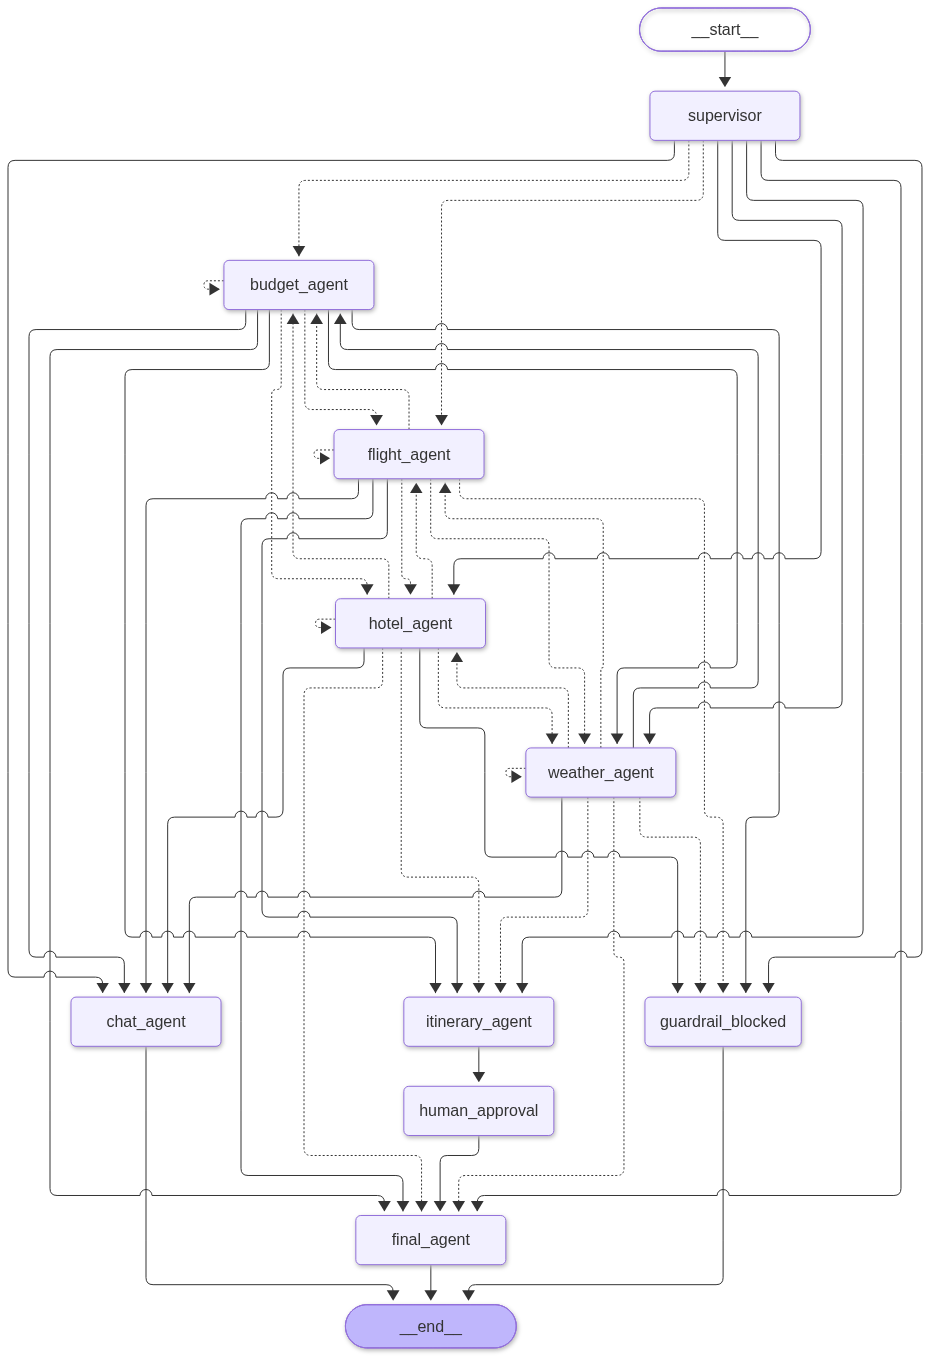
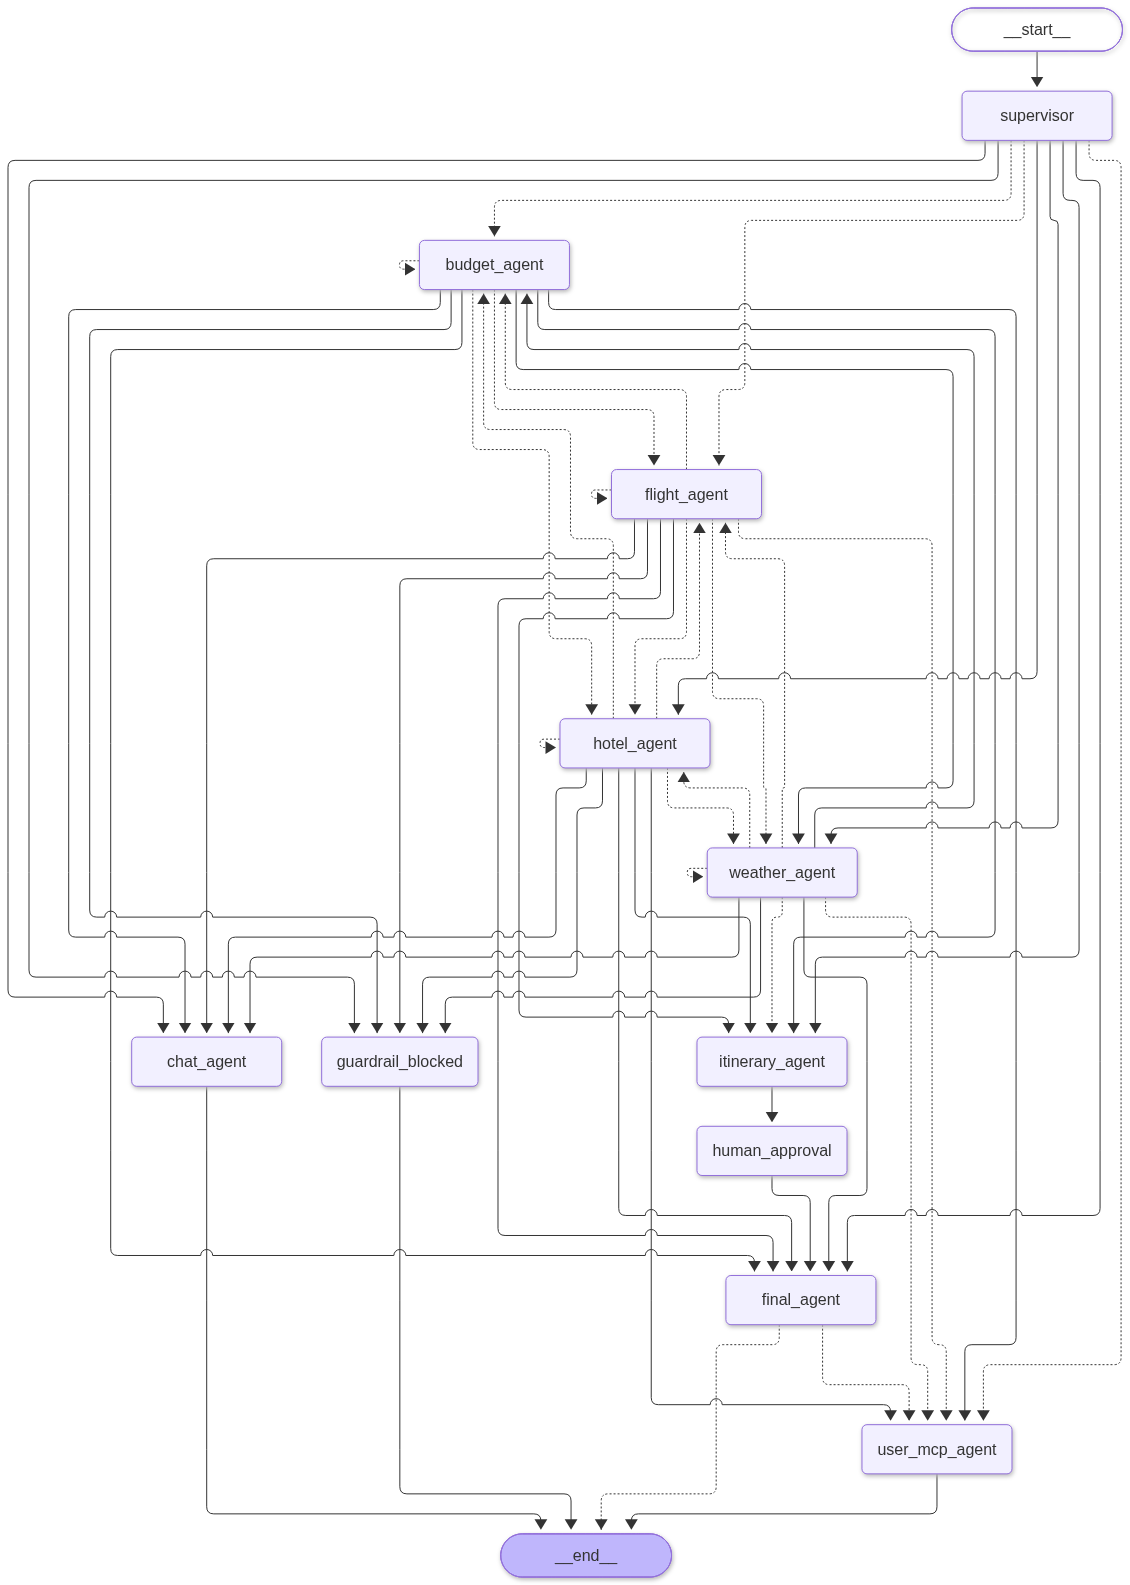
readme file updated

diff --git a/README.md b/README.md
@@ -1,1 +1,210 @@
-# Multi-Agent-System-using-LangGraph-MCP-Supervisor-Guardrails-HITL
+# TripMate AI — Multi-Agent Travel Planner with MCP, 5-Tier Memory & Guardrails
+
+A production-grade, multi-agent AI travel assistant built with **FastAPI**, **LangGraph**, **Groq**, **Mem0 + Qdrant**, **PostgreSQL + pgvector**, **Model Context Protocol (MCP)**, and a **React + Redux** frontend.
+
+![TripMate AI Architecture](images/architecture_v2.png)
+
+---
+
+## Key Capabilities
+
+- **Multi-Agent Travel Planning:** Supervisor-orchestrated specialist agents (`flight_agent`, `hotel_agent`, `weather_agent`, `budget_agent`, `itinerary_agent`, `final_agent`) powered by LangGraph.
+- **Human-in-the-Loop (HITL) Review:** Pauses before `human_approval_agent` / `final_agent` so users can review, edit, or approve draft itineraries before finalization.
+- **5-Tier Hybrid Memory with On-Demand `pgvector`:** Combines thread checkpoints, rolling summaries, Mem0 + Qdrant user facts, stateless constraint inheritance, and lazy `pgvector` trip recall.
+- **Dynamic User MCP & 3-Stage Tool RAG:** Users can connect Google Drive, Google Calendar, Notion, or custom remote MCPs at runtime while keeping Groq token usage within limits (94% token reduction).
+- **4-Intent LLM Router & Guardrails:** Single-call intent classification (`travel` | `mcp` | `chat` | `blocked`) with fail-open safety and post-execution output guardrails.
+- **Real-Time SSE Observability:** Streams live agent steps, memory tier diagnostics, and MCP tool filtering traces directly to the frontend `FlowPanel` and `MemoryPanel`.
+
+---
+
+## System Architecture & LangGraph Flow
+
+TripMate AI is organized into 6 layers: **React/Redux Frontend** → **FastAPI + SSE Gateway** → **Guardrails & 4-Intent Router** → **LangGraph Multi-Agent Orchestration** → **5-Tier Memory** → **PostgreSQL/`pgvector`, Qdrant Cloud, and MCP Servers**.
+
+```mermaid
+flowchart LR
+    START((User Query)) --> IG["Input Guardrail<br/>4-Intent LLM Router"]
+
+    IG -->|"blocked"| BLK["guardrail_blocked"] --> END((END))
+    IG -->|"chat"| CHAT["chat_agent<br/>(On-Demand pgvector)"] --> END
+    IG -->|"mcp (short-circuit)"| UMCP["user_mcp_agent<br/>(3-Stage Tool RAG)"] --> END
+
+    IG -->|"travel"| SUP["supervisor_agent"]
+    SUP --> SPEC["flight / hotel / weather / budget"]
+    SPEC --> ITIN["itinerary_agent"]
+    ITIN --> HITL{"human_approval_agent<br/>(HITL Interrupt)"}
+    HITL -->|"Approved"| FINAL["final_agent"] --> END
+    HITL -->|"Revise"| ITIN
+```
+
+---
+
+## Core Engineering Strategies & Optimizations
+
+### 1. 5-Tier Hybrid Memory & On-Demand `pgvector`
+| Tier | Mechanism | Scope | Storage | Optimization |
+|---|---|---|---|---|
+| **Tier 1** | Thread Checkpoint + Sliding Window | In-Thread | PostgreSQL (`PostgresSaver`) | Bounds active context while persisting full resumable state |
+| **Tier 2** | Rolling Summary | In-Thread | In-State (LLM Summary) | Compresses older turns automatically at **10+ turns** |
+| **Tier 3** | Long-Term User Facts | Cross-Session | **Mem0 + Qdrant Cloud** | Extracts durable preferences (diet, home city, travel style) |
+| **Tier 4** | Constraint Inheritance | In-Thread | Stateless Merge | Preserves origin, destination, budget, and dates with **0 DB calls** |
+| **Tier 5** | Episodic Past Trips | Cross-Session | **PostgreSQL `pgvector`** | **On-Demand Only:** gated by `needs_past_trips` (~500 tokens/turn saved) |
+
+- **On-Demand Gate:** Casual queries (e.g., *"Hi!"*) set `needs_past_trips = False`, resulting in **0 `pgvector` DB calls**. Recall queries (e.g., *"What was my last trip?"*) trigger `get_recent_trips()` (`ORDER BY created_at DESC`) and `find_similar_trips()` (384-dim `FastEmbed all-MiniLM-L6-v2` IVFFlat cosine similarity).
+
+### 2. 3-Stage Tool RAG (77+ MCP Tools → Top-6)
+1. **Stage 1 — Server Router:** Uses `target_mcp_servers` from the LLM Router (with `_filter_target_servers()` regex fallback) to connect only to relevant MCP servers.
+2. **Stage 2 — `FastEmbed` Semantic RAG:** Embeds the query and cached tool descriptions locally on CPU (`all-MiniLM-L6-v2`), applies cosine similarity + tool-name keyword boost, and selects the **Top-6 tools** (`0` LLM tokens).
+3. **Stage 3 — Schema Compaction:** `_compact_tool_for_llm()` strips verbose JSON Schema definitions, reducing Notion schemas from **41,299 tokens → 4,072 tokens** (~90% reduction).
+
+### 3. Guardrails, Routing & Reliability
+- **Single-Call 4-Intent Router (`src/guardrails/input_guardrail.py`):** Outputs `intent`, `needs_past_trips`, `target_servers`, and `resolved_query` in one call; fails open to `chat` on errors.
+- **MCP Short-Circuit (`src/agents/supervisor.py`):** Pure `mcp` intents route directly to `user_mcp_agent`, saving 1 LLM call.
+- **LLM Fallback & Circuit Breaker (`src/reliability/llm_factory.py`):** Primary Groq `gpt-oss-120b` falls back to `gpt-oss-20b` on HTTP 429/413 with a 1-hour TPD circuit breaker and `bind_tools_resilient()`.
+- **Output Guardrail (`src/guardrails/output_guardrail.py`):** Scans final responses, detects tool failures via `_is_tool_error()`, and preserves URLs via `_fallback_trace_summary()`.
+
+### 4. Security
+- **Fernet AES Encryption (`src/core/encryption.py`):** All OAuth tokens and API keys in `user_mcp_connections` are encrypted at rest.
+- **SSRF Protection (`src/mcp_dynamic/catalog.py`):** `validate_remote_mcp_url()` blocks RFC 1918 private networks, loopback, and cloud metadata IPs.
+- **JWT Authentication (`src/api/routers/auth.py`):** `bcrypt` password hashing + HS256 JWT tokens.
+
+---
+
+## MCP Integrations
+
+### App-Level MCPs (All Users)
+| Server | Transport | Purpose |
+|---|---|---|
+| **Tavily Search** | `streamable_http` | Live travel web search |
+| **AviationStack** | `stdio` (`uvx`) | Real-time flight availability & pricing |
+| **Custom Weather MCP** | `stdio` (`FastMCP`) | Weather lookup via `wttr.in` (`mymcp/custom_weather_mcp.py`) |
+
+### User-Level Dynamic MCPs (Per User)
+- **Built-In:** Google Drive (6 tools), Google Calendar (2 tools)
+- **Remote:** Notion and any custom remote MCP server
+- **3 Auth Modes:**
+  1. API Key / Bearer Token (Fernet-encrypted)
+  2. OAuth 2.1 `.well-known` + RFC 7591 Dynamic Client Registration + PKCE (e.g., Notion)
+  3. Google OAuth2 (auto-detected for `*.googleapis.com` URLs)
+
+---
+
+## Tech Stack
+
+| Layer | Technologies |
+|---|---|
+| **Backend API** | Python 3.11+, FastAPI, Uvicorn, Pydantic Settings, SSE |
+| **Orchestration** | LangGraph (`StateGraph`, `PostgresSaver`, HITL), LangChain |
+| **LLM & Embeddings** | Groq (`gpt-oss-120b`, `gpt-oss-20b`), `FastEmbed` (`all-MiniLM-L6-v2`, 384-dim) |
+| **Memory & Databases** | PostgreSQL 16 + `pgvector`, `psycopg3` pool, Mem0 + Qdrant Cloud |
+| **MCP** | `mcp`, `langchain-mcp-adapters` (`MultiServerMCPClient`), `FastMCP` |
+| **Frontend** | React 18, Vite, Redux Toolkit, React Router, Tailwind CSS, Framer Motion, Lucide |
+
+---
+
+## Project Structure
+
+```text
+03-MultiAgent-MCP-Guardrails/
+├── app.py                          # FastAPI entry point & router mounting
+├── docker-compose.yml              # Local PostgreSQL 16 + pgvector container
+├── pyproject.toml                  # Python dependencies & project metadata
+├── mymcp/                          # App-level MCPs (Tavily, AviationStack, Custom Weather)
+├── src/
+│   ├── agents/                     # graph.py, supervisor.py, chat.py, itinerary.py, final.py, state.py
+│   │   └── specialists/            # flight, hotel, weather, budget, user_mcp_agent.py (3-Stage Tool RAG)
+│   ├── api/routers/                # auth.py, travel.py (SSE + HITL), threads.py (paginated), mcp_servers.py
+│   ├── guardrails/                 # input_guardrail.py (4-intent router), output_guardrail.py
+│   ├── memory/                     # vector_store.py, mem0_service.py, thread_memory.py, checkpointer.py, profile_store.py
+│   ├── mcp_dynamic/                # catalog.py (SSRF guard), oauth.py, store.py, client.py
+│   ├── reliability/                # llm_factory.py (fallback + circuit breaker), retry_policy.py
+│   └── core/                       # config.py, database.py, encryption.py, logging_config.py
+├── scripts/
+│   └── test_memory_recall.py       # 4-part memory & on-demand pgvector test suite
+└── images/                         # architecture.jpg, architecture_new.jpg, graph.png
+```
+
+---
+
+## Quick Start
+
+### 1. Start PostgreSQL + `pgvector`
+```bash
+docker compose up -d
+```
+This launches `pgvector/pgvector:pg16` on `localhost:5432` (database: `tripagentmemo`).
+
+### 2. Install Backend Dependencies
+Using `uv` (recommended, `uv.lock` included):
+```bash
+uv sync
+```
+Or with `pip`:
+```bash
+pip install -r requirements.txt
+```
+
+### 3. Configure Environment Variables
+Create a `.env` file in the project root:
+```env
+DATABASE_URL=postgresql://postgres:postgres@localhost:5432/tripagentmemo
+GROQ_API_KEY=gsk_...
+QDRANT_URL=https://your-cluster.qdrant.io
+QDRANT_API_KEY=...
+TAVILY_API_KEY=tvly-...
+AVIATIONSTACK_API_KEY=...
+SECRET_KEY=your-jwt-secret
+FERNET_KEY=your-base64-fernet-key
+GOOGLE_CLIENT_ID=...
+GOOGLE_CLIENT_SECRET=...
+GOOGLE_REDIRECT_URI=http://localhost:8000/api/mcp/oauth/callback
+FRONTEND_URL=http://localhost:5173
+```
+
+### 4. Run the Backend
+```bash
+uvicorn app:app --reload --port 8000
+```
+
+### 5. Run the Frontend (separate directory)
+```bash
+cd ../03-Travel-MultiAgent-frontend
+npm install
+npm run dev
+```
+
+---
+
+## Testing & Verification
+
+Run the memory recall & on-demand `pgvector` test suite:
+```bash
+python scripts/test_memory_recall.py
+```
+Covers:
+1. Short-term thread sliding window + constraint inheritance
+2. `chat_agent` on-demand `pgvector` gating (0 DB calls on casual `"Hi!"`)
+3. `itinerary_agent` Mem0 + past trips injection
+4. Live PostgreSQL `pgvector` round-trip (`store_trip_embedding`, `find_similar_trips`, `get_recent_trips`)
+
+---
+
+## API Overview
+
+| Method | Endpoint | Description |
+|---|---|---|
+| `POST` | `/api/auth/register` & `/api/auth/login` | User registration & JWT login |
+| `GET` | `/api/threads?page=1&page_size=15` | Paginated thread list (`total`, `has_more`) |
+| `PATCH` | `/api/threads/{thread_id}` | Inline thread rename |
+| `POST` | `/api/chat/{thread_id}` | Start agent run |
+| `GET` | `/api/stream/{thread_id}` | SSE stream (`agent_started`, `live_step`, `memory_trace`, `mcp_trace`, `done`) |
+| `POST` | `/api/approve/{thread_id}` | Resume HITL graph after itinerary review |
+| `GET` | `/api/mcp/catalog` | List available dynamic MCP servers |
+| `POST` | `/api/mcp/connect` | Connect API-key / Bearer MCP server |
+| `GET` | `/api/mcp/oauth/start` & `/callback` | OAuth 2.1 / Google OAuth connection flow |
+
+---
+
+## License
+
+See [LICENSE](LICENSE) for details.
